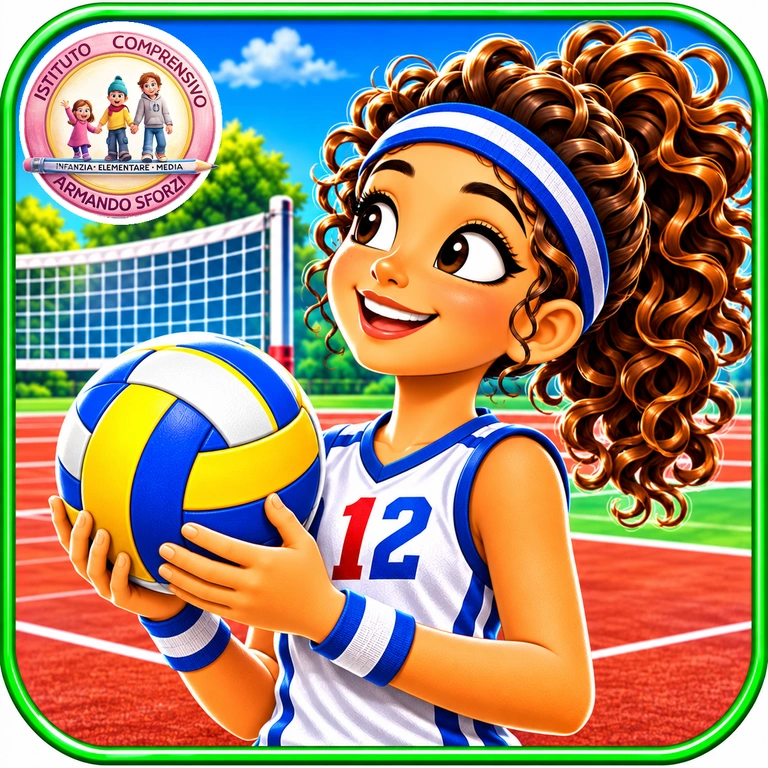
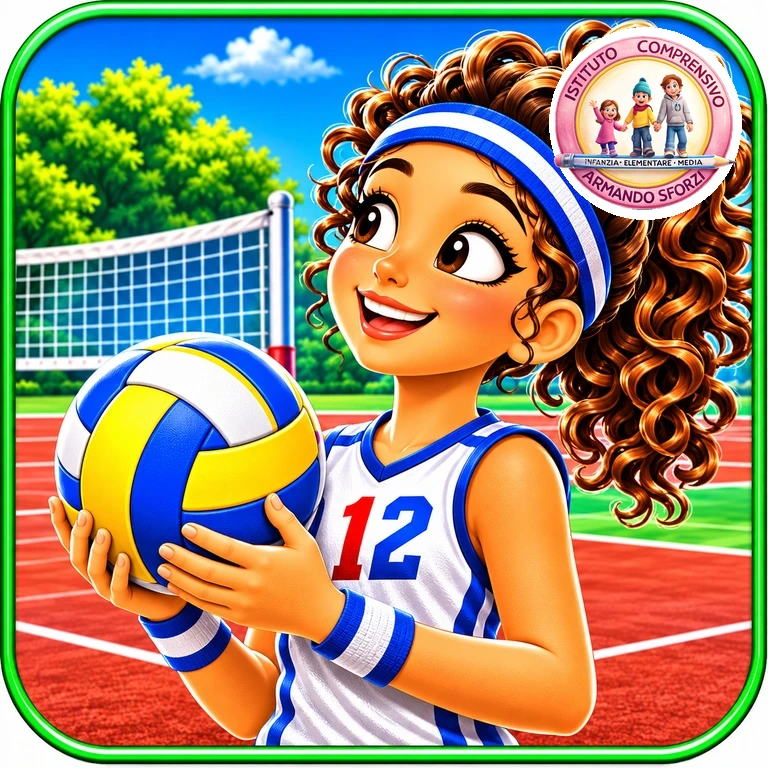
Add files via upload

diff --git a/index.html b/index.html
@@ -67,16 +67,16 @@ main{max-width:1710px}.explore{grid-template-columns:minmax(0, .95fr) minmax(0,3
 @media(max-width:760px){.explore{grid-template-columns:1fr 1fr;gap:12px}.guide{grid-row:1;min-height:0;position:relative;top:auto;padding-top:24px}.guide-right{grid-column:2}.guide img{height:clamp(130px,32vw,230px)}.grid{grid-row:2;grid-column:1/-1;grid-template-columns:repeat(2,minmax(0,1fr))}.guide-label{font-size:14px}}
 @media(max-width:430px){.grid{grid-template-columns:repeat(2,minmax(0,1fr))}.guide-label{font-size:12px}}
 @media(min-width:1171px){main{max-width:1850px}.explore{grid-template-columns:minmax(0,1.15fr) minmax(0,3.8fr) minmax(0,1.15fr)}.guide img{height:clamp(380px,34vw,650px)}}
-</style></head><body><header class="hero"><div class="hero-inner"><div class="hero-copy"><div class="kicker">SCUOLA SECONDARIA G. PUCCINI · OPEN DAY 2026</div><h1>MISSIONE <span>PUCCINI</span></h1><p>Dieci laboratori, un'avventura da vivere insieme.</p><p>Esplora la scuola e conquista <strong>almeno 6 timbri</strong> sul tuo passaporto!</p></div><div class="school"><img src="logo_istituto_trasparente.png" alt="Logo originale dell'Istituto Comprensivo Armando Sforzi"><small>I.C. Armando Sforzi<br>Istituto Comprensivo</small></div></div></header><div class="mp-crediti-banner" aria-label="Crediti della scuola">I.C. Armando Sforzi · Scuola Media G. Puccini · Prof. Marco Cigolotti · Realizzato con il supporto dell’IA</div><main><div class="intro"><div><h2>Quale laboratorio vuoi esplorare?</h2><p>Tocca una materia per iniziare la missione. Nessuna registrazione richiesta.</p></div><div class="counter">✦ 10 laboratori</div></div><div class="explore"><aside class="guide" aria-label="La mascotte indica i laboratori"><div class="guide-label">Scegli la tua avventura!</div><img src="bambino_indica_grande.webp" alt="Bambino con felpa grigia che indica i laboratori sulla destra"></aside><nav class="grid" aria-label="Laboratori disponibili"><a class="tile" href="italiano/index.html" style="--accent:#ce5668"><span class="subject-art"><img src="icone_materie/lettere.webp" alt="" loading="lazy"><img class="subject-logo" src="logo_istituto_trasparente.png" alt=""></span><strong>Laboratorio di Lettere</strong><small>Italiano, Storia e Geografia</small><span class="go">ENTRA NEL LABORATORIO →</span></a>
+</style></head><body><header class="hero"><div class="hero-inner"><div class="hero-copy"><div class="kicker">SCUOLA SECONDARIA G. PUCCINI · OPEN DAY 2026</div><h1>MISSIONE <span>PUCCINI</span></h1><p>Dieci laboratori, un'avventura da vivere insieme.</p><p>Esplora la scuola e conquista <strong>almeno 6 timbri</strong> sul tuo passaporto!</p></div><div class="school"><img src="logo_istituto_trasparente.png" alt="Logo originale dell'Istituto Comprensivo Armando Sforzi"><small>I.C. Armando Sforzi<br>Istituto Comprensivo</small></div></div></header><div class="mp-crediti-banner" aria-label="Crediti della scuola">I.C. Armando Sforzi · Scuola Media G. Puccini · Prof. Marco Cigolotti · Creato con il supporto di AI</div><main><div class="intro"><div><h2>Quale laboratorio vuoi esplorare?</h2><p>Tocca una materia per iniziare la missione. Nessuna registrazione richiesta.</p></div><div class="counter">✦ 10 laboratori</div></div><div class="explore"><aside class="guide" aria-label="La mascotte indica i laboratori"><div class="guide-label">Scegli la tua avventura!</div><img src="bambino_indica_grande.webp" alt="Bambino con felpa grigia che indica i laboratori sulla destra"></aside><nav class="grid" aria-label="Laboratori disponibili"><a class="tile" href="italiano/index.html" style="--accent:#ce5668"><span class="subject-art"><img src="icone_materie/lettere.webp" alt="" loading="lazy"><img class="subject-logo" src="logo_istituto_trasparente.png" alt=""></span><strong>Laboratorio di Lettere</strong><small>Italiano, Storia e Geografia</small><span class="go">ENTRA NEL LABORATORIO →</span></a>
 <a class="tile" href="storia_geografia/index.html" style="--accent:#b4783e"><span class="subject-art"><img src="icone_materie/storia_geografia.webp" alt="" loading="lazy"><img class="subject-logo" src="logo_istituto_trasparente.png" alt=""></span><strong>Storia e Geografia</strong><small>La macchina del tempo</small><span class="go">ENTRA NEL LABORATORIO →</span></a>
 <a class="tile" href="scienze/index.html" style="--accent:#248d79"><span class="subject-art"><img src="icone_materie/scienze.webp" alt="" loading="lazy"><img class="subject-logo" src="logo_istituto_trasparente.png" alt=""></span><strong>Scienze</strong><small>Il laboratorio dei misteri</small><span class="go">ENTRA NEL LABORATORIO →</span></a>
 <a class="tile" href="matematica/index.html" style="--accent:#c58b21"><span class="subject-art"><img src="icone_materie/matematica.webp" alt="" loading="lazy"><img class="subject-logo" src="logo_istituto_trasparente.png" alt=""></span><strong>Matematica</strong><small>La cassaforte dei numeri</small><span class="go">ENTRA NEL LABORATORIO →</span></a>
 <a class="tile" href="tecnologia/index.html" style="--accent:#277f9b"><span class="subject-art"><img src="icone_materie/tecnologia.webp" alt="" loading="lazy"><img class="subject-logo" src="logo_istituto_trasparente.png" alt=""></span><strong>Tecnologia</strong><small>La sfida degli inventori</small><span class="go">ENTRA NEL LABORATORIO →</span></a>
-<a class="tile" href="arte/index.html" style="--accent:#9559a6"><span class="subject-art"><img src="icone_materie/arte.webp" alt="" loading="lazy"><img class="subject-logo" src="logo_istituto_trasparente.png" alt=""></span><strong>Arte e Immagine</strong><small>Piccoli restauratori</small><span class="go">ENTRA NEL LABORATORIO →</span></a>
+<a class="tile" href="arte/index.html" style="--accent:#9559a6"><span class="subject-art"><img src="icone_materie/arte.webp" alt="" loading="lazy"></span><strong>Arte e Immagine</strong><small>Piccoli restauratori</small><span class="go">ENTRA NEL LABORATORIO →</span></a>
 <a class="tile" href="inglese/index.html" style="--accent:#3976bd"><span class="subject-art"><img src="icone_materie/inglese.webp" alt="" loading="lazy"><img class="subject-logo" src="logo_istituto_trasparente.png" alt=""></span><strong>Inglese</strong><small>Mission English</small><span class="go">ENTRA NEL LABORATORIO →</span></a>
 <a class="tile" href="musica/index.html?v=35-puccini" style="--accent:#7957b2"><span class="subject-art"><img src="icone_materie/musica.webp" alt="" loading="lazy"><img class="subject-logo" src="logo_istituto_trasparente.png" alt=""></span><strong>Musica</strong><small>18 domande su Giacomo Puccini</small><span class="go">ENTRA NEL LABORATORIO →</span></a>
-<a class="tile" href="motorie/index.html" style="--accent:#42944f"><span class="subject-art"><img src="icone_materie/motorie.webp" alt="" loading="lazy"><img class="subject-logo" src="logo_istituto_trasparente.png" alt=""></span><strong>Scienze motorie</strong><small>Muoviti e scopri</small><span class="go">ENTRA NEL LABORATORIO →</span></a>
-<a class="tile" href="francese/index.html" style="--accent:#c65c89"><span class="subject-art"><img src="icone_materie/francese.webp" alt="" loading="lazy"><img class="subject-logo" src="logo_istituto_trasparente.png" alt=""></span><strong>Francese</strong><small>Mission Paris</small><span class="go">ENTRA NEL LABORATORIO →</span></a></nav><aside class="guide guide-right" aria-label="La seconda mascotte indica i laboratori"><img src="bambina_indica_v2.webp" alt="Bambina con capelli ricci e abbigliamento sportivo che indica i laboratori sulla sinistra"></aside></div></main><footer class="foot">I.C. Armando Sforzi · Scuola Media G. Puccini · Prof. Marco Cigolotti · Realizzato con il supporto dell’IA</footer><script>
+<a class="tile" href="motorie/index.html" style="--accent:#42944f"><span class="subject-art"><img src="icone_materie/motorie.webp" alt="" loading="lazy"></span><strong>Scienze motorie</strong><small>Muoviti e scopri</small><span class="go">ENTRA NEL LABORATORIO →</span></a>
+<a class="tile" href="francese/index.html" style="--accent:#c65c89"><span class="subject-art"><img src="icone_materie/francese.webp" alt="" loading="lazy"><img class="subject-logo" src="logo_istituto_trasparente.png" alt=""></span><strong>Francese</strong><small>Mission Paris</small><span class="go">ENTRA NEL LABORATORIO →</span></a></nav><aside class="guide guide-right" aria-label="La seconda mascotte indica i laboratori"><img src="bambina_indica_v2.webp" alt="Bambina con capelli ricci e abbigliamento sportivo che indica i laboratori sulla sinistra"></aside></div></main><footer class="foot">I.C. Armando Sforzi · Scuola Media G. Puccini · Prof. Marco Cigolotti · Creato con il supporto di AI</footer><script>
 /* Controllo del testo in ogni pagina. La preferenza resta sul dispositivo. */
 (function(){
 'use strict';
